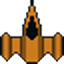
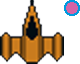
40 Bullettia / BulletEngine
Vain 40 luojia per engine, enempää ei kyllä tarttekaa. Luodille on hieno
place holder grafiikka. muy büeno.

diff --git a/BulletEngine.cpp b/BulletEngine.cpp
@@ -12,7 +12,7 @@ BulletEngine::BulletEngine(Texture *tex, int ammount)
 	}
 	for(ait = angles.begin(); ait != angles.end(); ait++)
 	{
-		Bullet *bullet = new Bullet(Vector2f(300,50), 50, *ait, tex, sf::IntRect(0,0,64,64));
+		Bullet *bullet = new Bullet(Vector2f(300,300), 50, *ait, tex, sf::IntRect(64,0,16,16));
 		bulletL.push_back(bullet);
 	}
 	
@@ -30,7 +30,7 @@ void BulletEngine::update(float dt)
 	{
 		(*bit)->update(dt);
 		
-		if ((*bit)->returnLife() < 4)
+		if ((*bit)->returnLife() < 10)
 		{
 			bit++;
 		}

diff --git a/main.cpp b/main.cpp
@@ -45,7 +45,7 @@ int main()
 		
 		if(Keyboard::isKeyPressed(Keyboard::Space))
 		{
-			BulletEngine *engine1 = new BulletEngine(tex, 8);
+			BulletEngine *engine1 = new BulletEngine(tex, 40);
 			bEngine.push_back(engine1);
 		}
 		Time elapsed = clock.getElapsedTime();

diff --git a/Bullet.cpp b/Bullet.cpp
@@ -24,11 +24,6 @@ void Bullet::update(float dt)
 	position.y += speed*dt*sin(angle*degree);
 	
 	sprite.setPosition(position);
-
-	if(life > 4)
-	{
-		
-	}
 }
 
 float const Bullet::returnLife()
